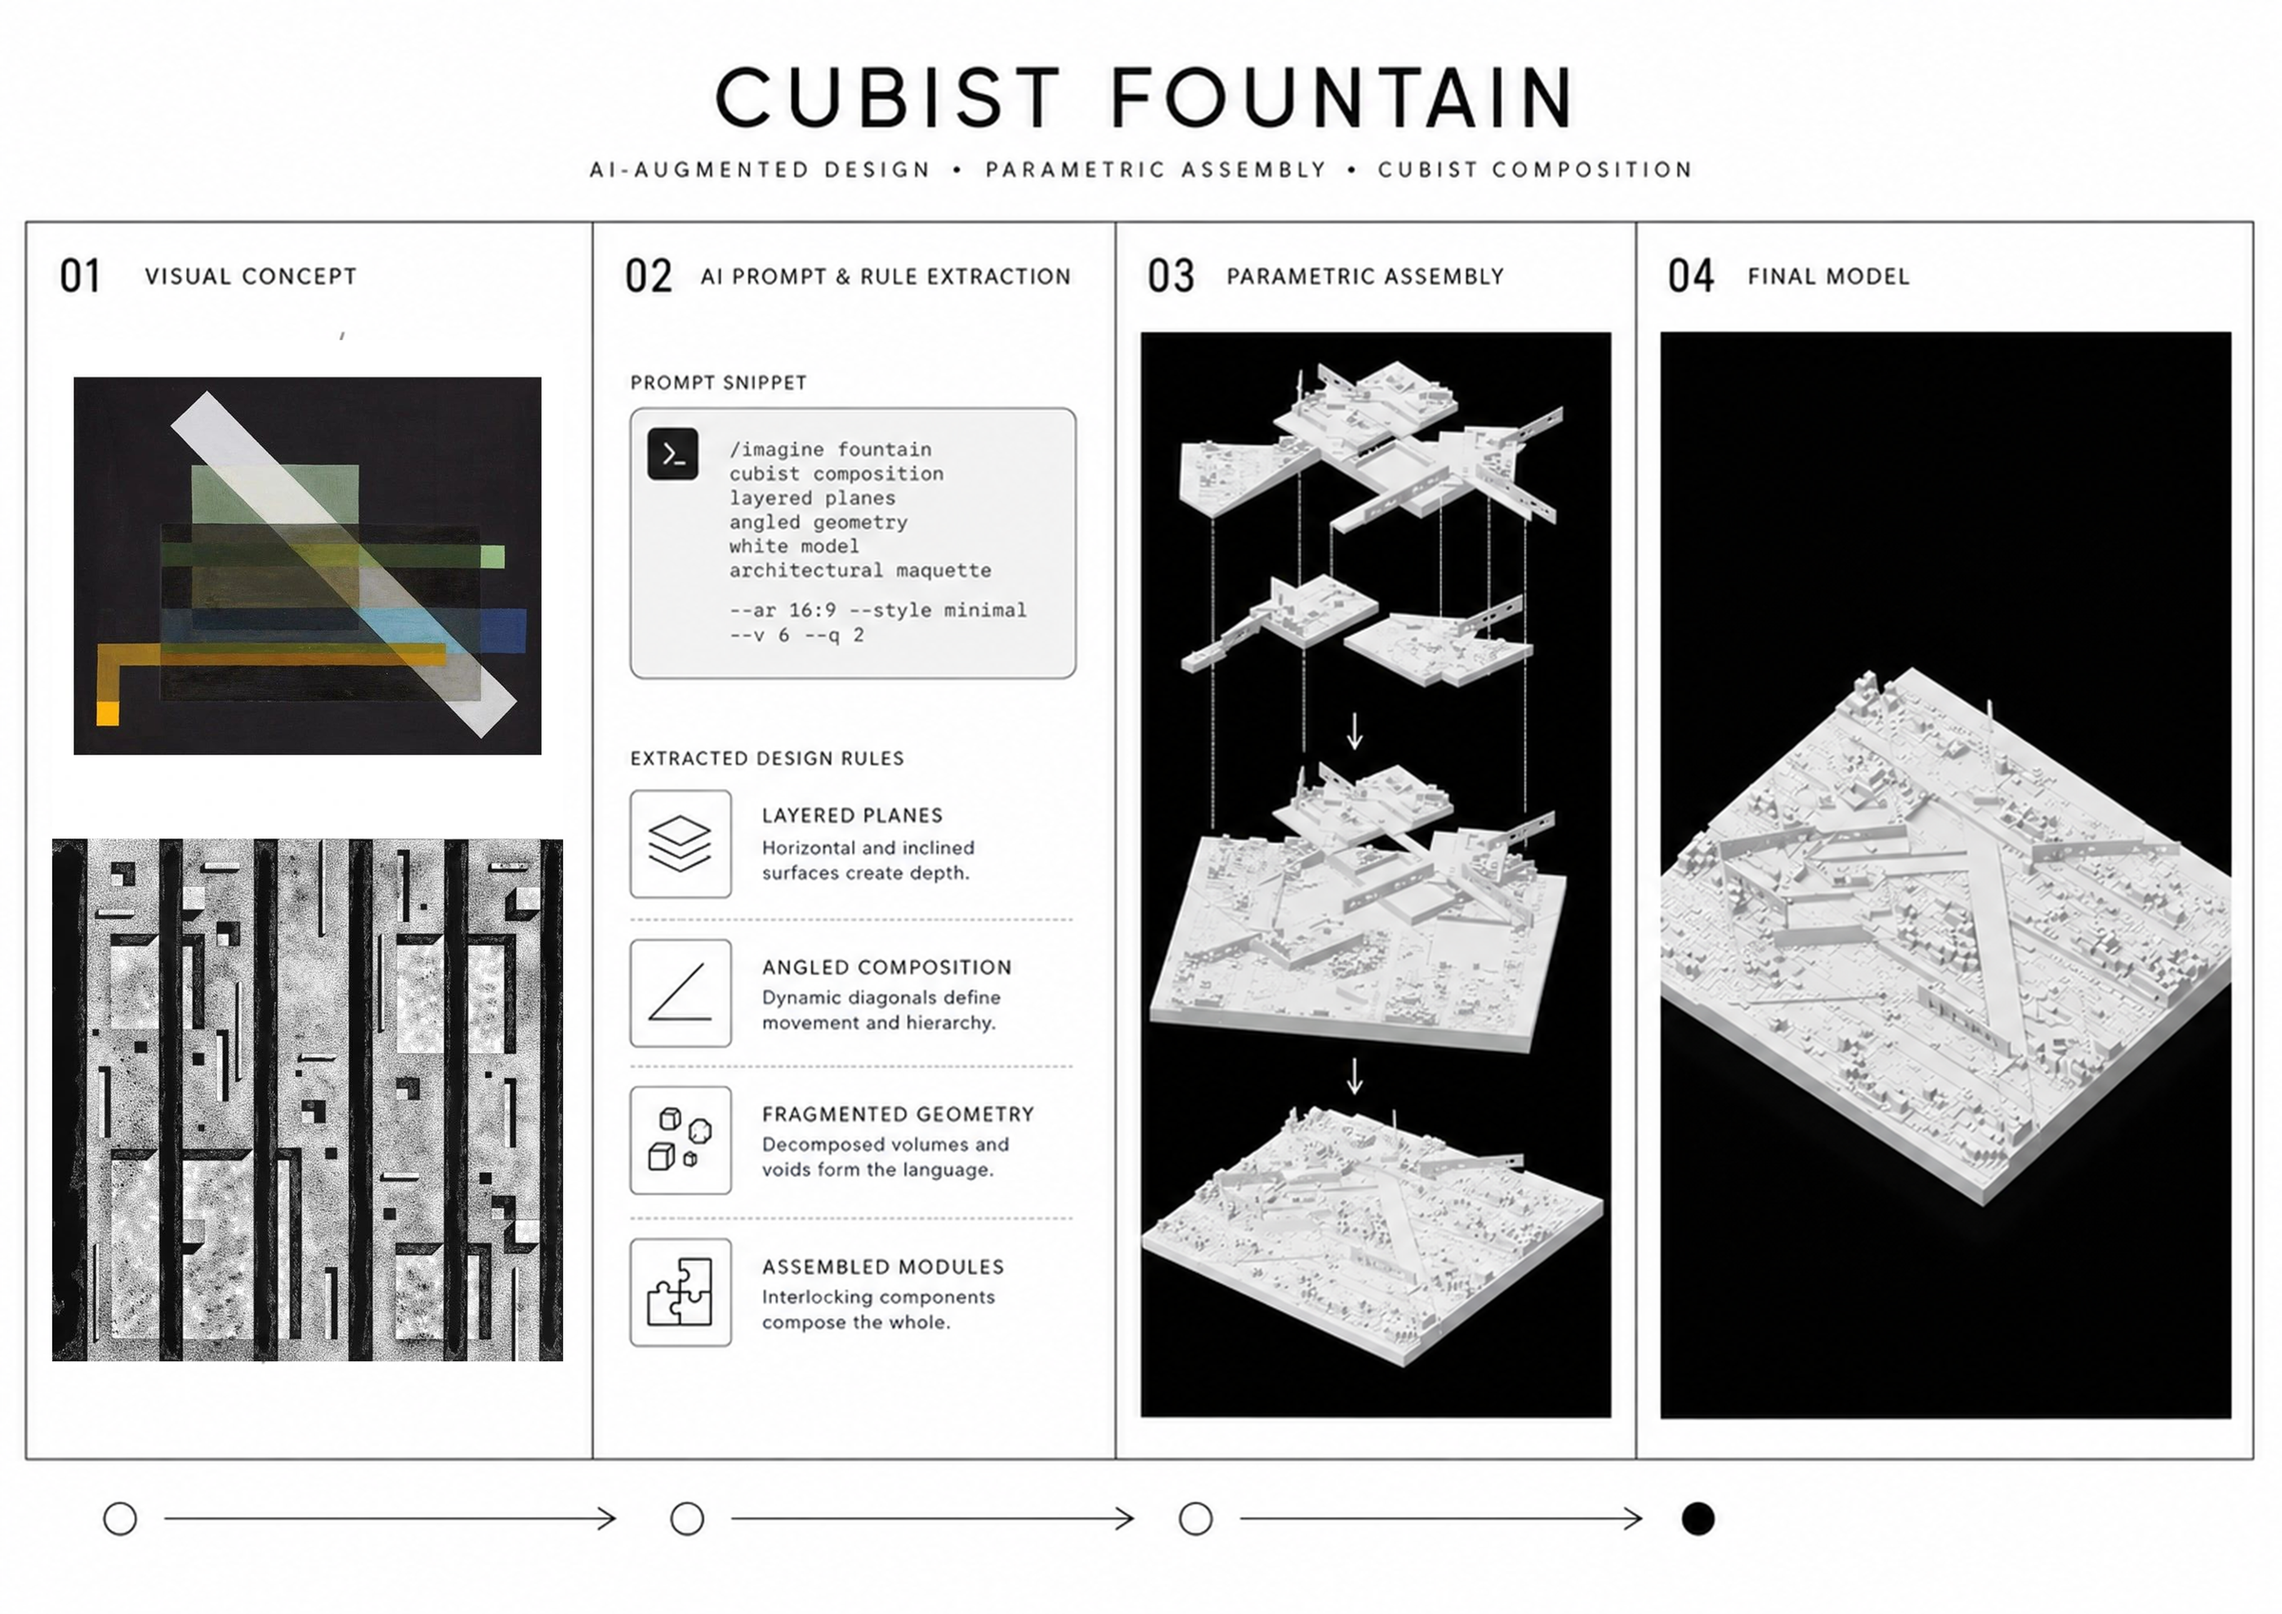
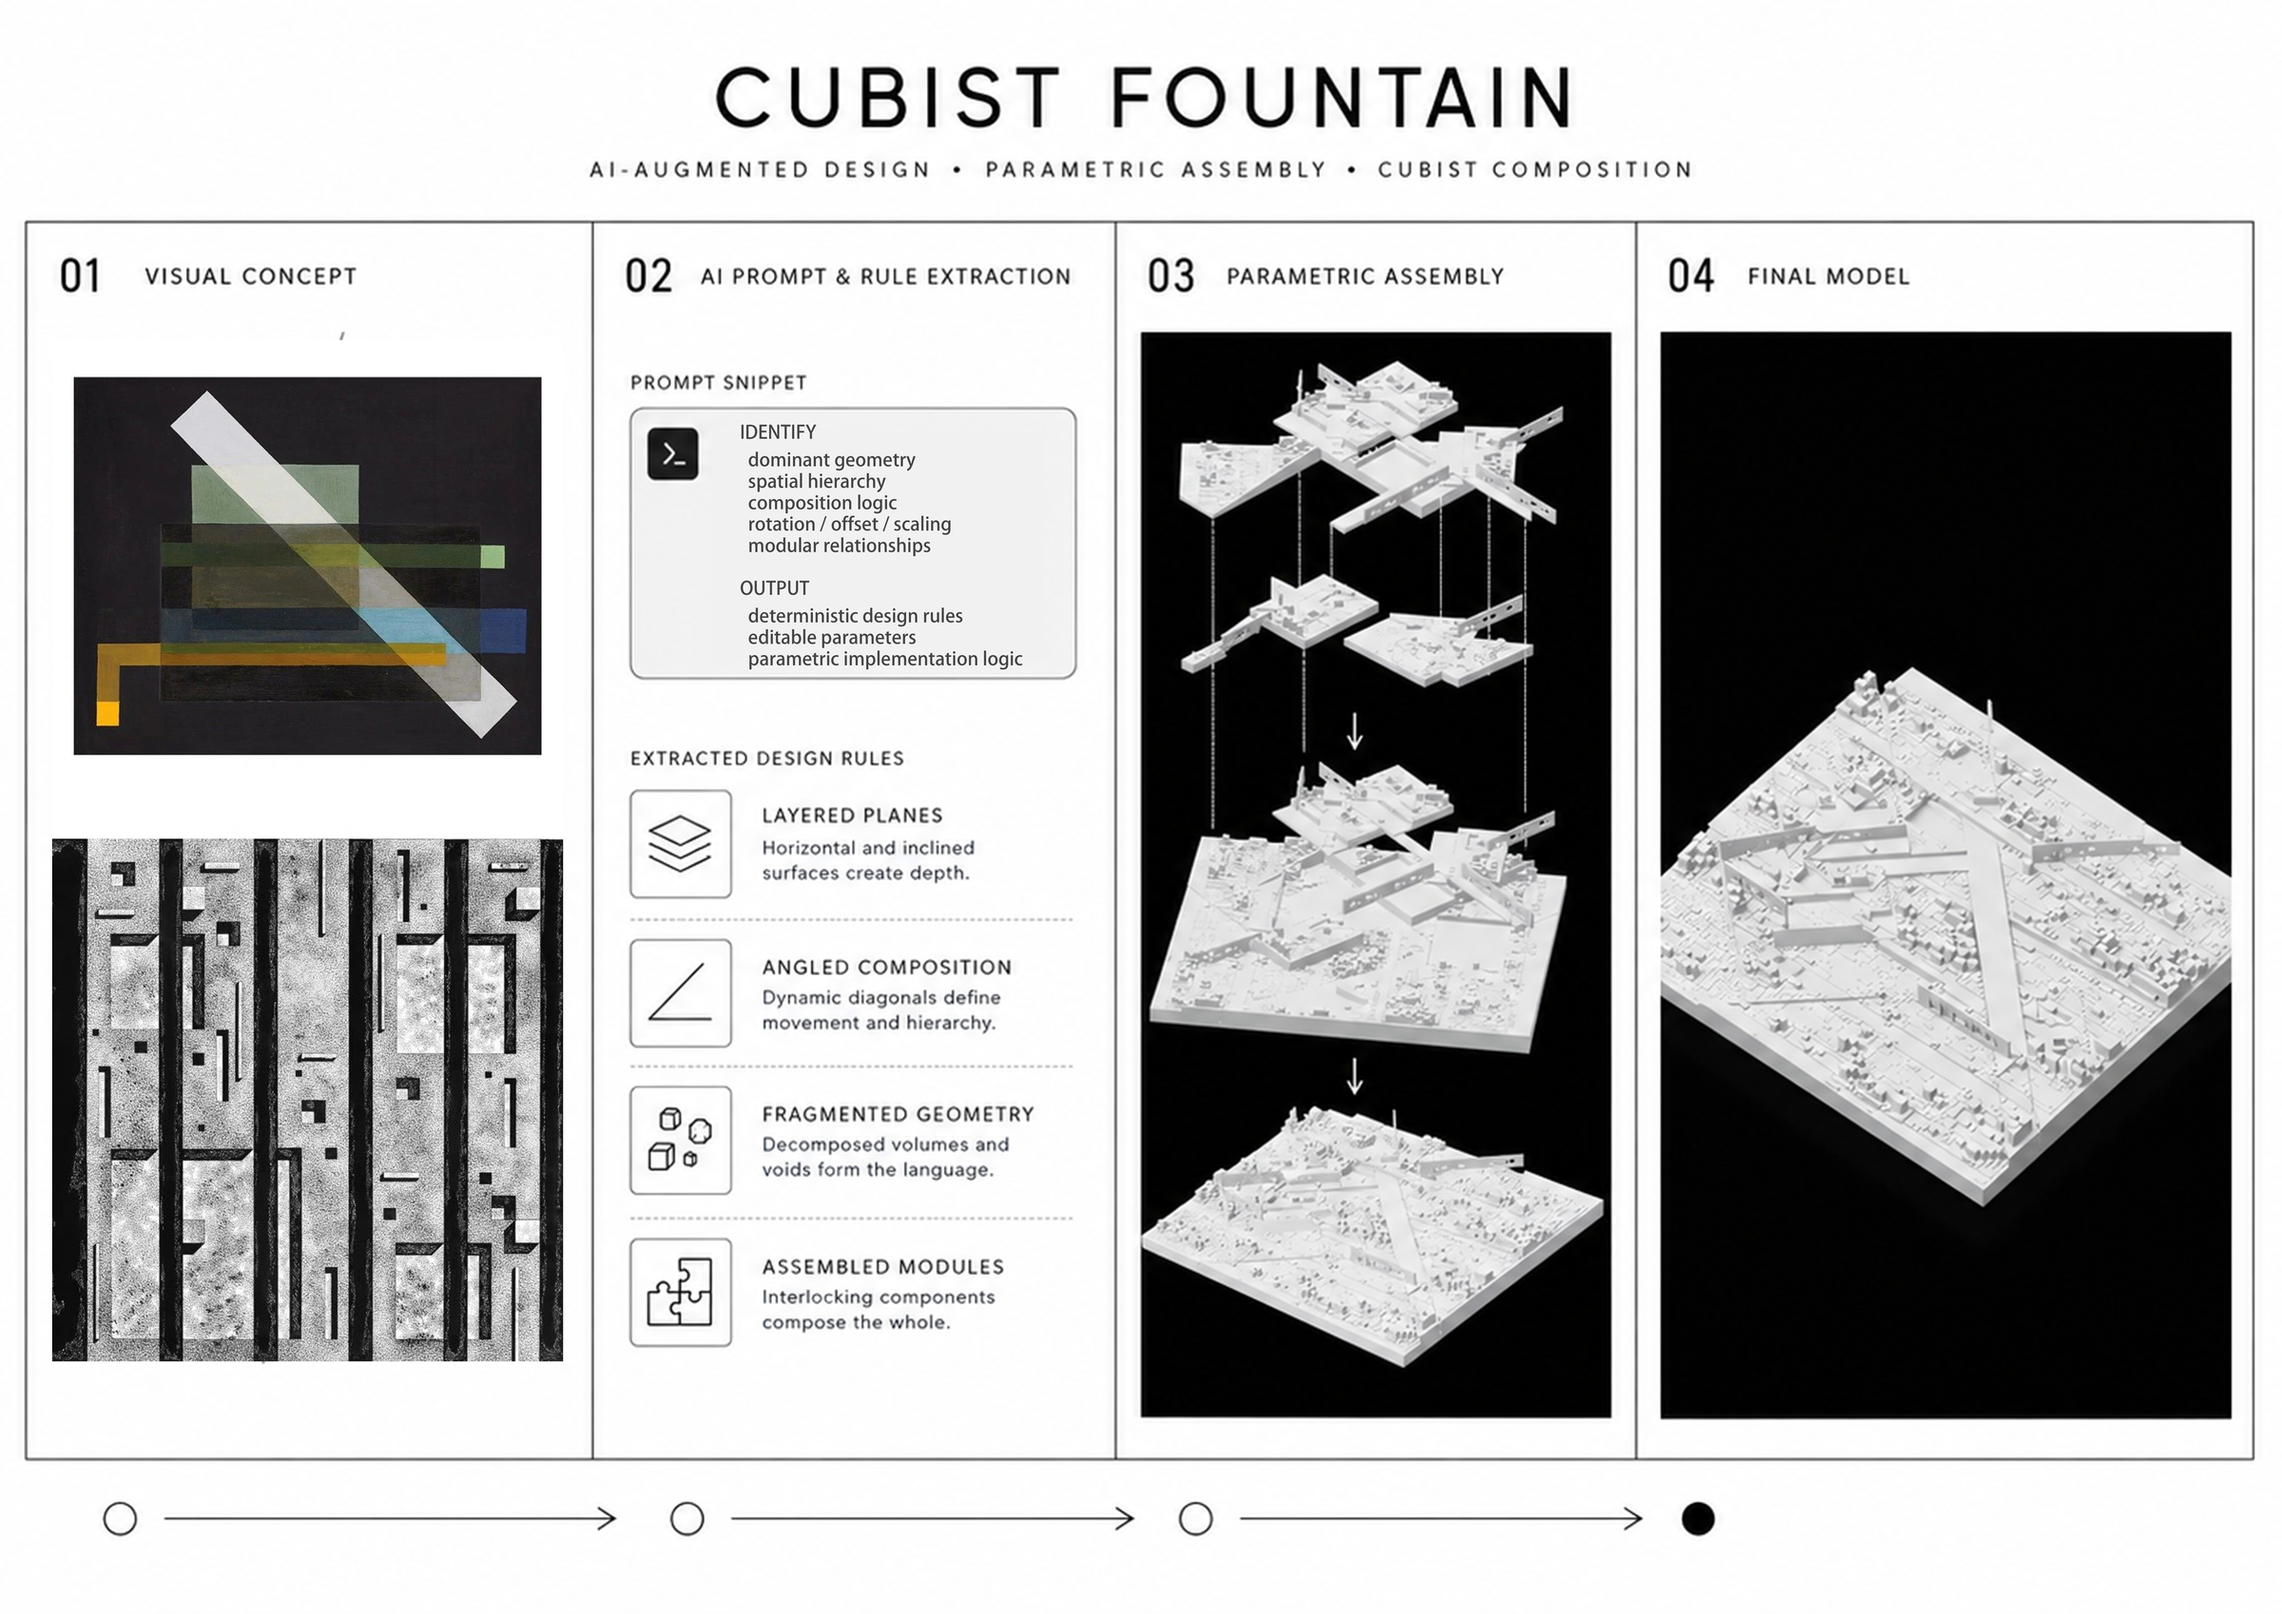
docs: refine README media layout

Changed region(s): [[0.3125, 0.2497, 0.4375, 0.437]]

diff --git a/README.md b/README.md
@@ -8,7 +8,9 @@
 ![LLM](https://img.shields.io/badge/LLM-Claude%20%7C%20GPT%20%7C%20Gemini-8A2BE2)
 ![Output](https://img.shields.io/badge/Output-3D%20Printed-orange)
 
-![Cubist Fountain 项目四阶段工作流](assets/workflow-overview.png)
+<p align="center">
+  <img src="assets/workflow-overview.png" alt="Cubist Fountain 项目四阶段工作流" width="850">
+</p>
 
 <a id="overview"></a>
 ## 📖 项目概览
@@ -22,21 +24,26 @@ Cubist Fountain 探索多模态 AI 如何辅助设计师将抽象视觉参考转
 <a id="showcase"></a>
 ## 🎬 成果展示
 
-### Assembly｜模块拼合
-
-![模块从分解状态逐步拼合为完整模型](assets/assembly.gif)
-
-模块沿垂直方向逐步落位，形成最终构图。
-
-### Rotation｜旋转展示
-
-![完整模型旋转展示](assets/rotation.gif)
-
-完整模型进行一轮连续旋转，用于观察整体形态与空间层次。
+<table>
+  <tr>
+    <th>Assembly｜模块拼合</th>
+    <th>Rotation｜旋转展示</th>
+  </tr>
+  <tr>
+    <td align="center"><img src="assets/assembly.gif" alt="模块从分解状态逐步拼合为完整模型" width="420"></td>
+    <td align="center"><img src="assets/rotation.gif" alt="完整模型旋转展示" width="420"></td>
+  </tr>
+  <tr>
+    <td align="center">模块沿垂直方向逐步落位，形成最终构图。</td>
+    <td align="center">完整模型进行一轮连续旋转，展示整体形态与空间层次。</td>
+  </tr>
+</table>
 
 ### Physical Prototype｜实体原型
 
-![黑白实体模型与构件的俯拍照片](assets/prototype-photo-restored.jpg)
+<p align="center">
+  <img src="assets/prototype-photo-restored.jpg" alt="黑白实体模型与构件的俯拍照片" width="480">
+</p>
 
 实体模型及构件研究。照片仅进行了保守的降噪、色彩与对比度校正，未重构模型几何。
 
